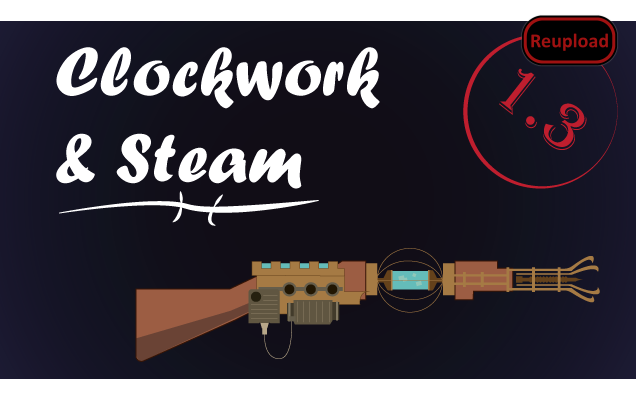
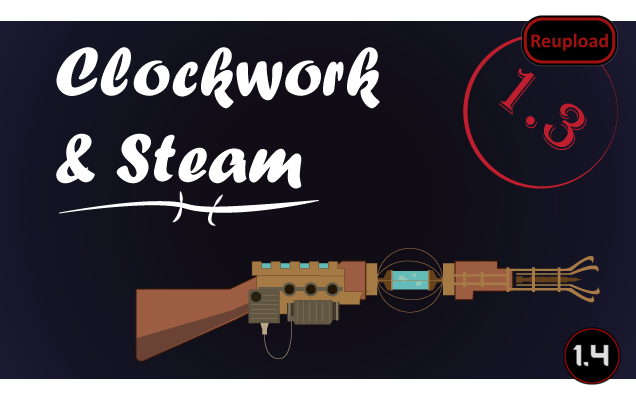
Last update, added end-of-life message

Changed region(s): [[0.8664, 0.81, 0.9858, 0.96]]

diff --git a/README.md b/README.md
@@ -7,7 +7,7 @@ https://steamcommunity.com/sharedfiles/filedetails/?id=1736127702
 
 - Includes https://steamcommunity.com/sharedfiles/filedetails/?id=2341606550]CaS - Royalty Patch
 
-![Image](https://i.imgur.com/pufA0kM.png)
+![Image](https://i.imgur.com/CN9Rs5X.png)
 
 	
 ![Image](https://i.imgur.com/Z4GOv8H.png)
@@ -80,10 +80,13 @@ I'm currently working on adding more steampunk inspired stuff to this mod.
 
 -  See if the the error persists if you just have this mod and its requirements active.
 -  If not, try adding your other mods until it happens again.
--  Post your error-log using https://steamcommunity.com/workshop/filedetails/?id=818773962]HugsLib and command Ctrl+F12
+-  Post your error-log using https://steamcommunity.com/workshop/filedetails/?id=818773962]HugsLib or the standalone https://steamcommunity.com/sharedfiles/filedetails/?id=2873415404]Uploader and command Ctrl+F12
 -  For best support, please use the Discord-channel for error-reporting.
 -  Do not report errors by making a discussion-thread, I get no notification of that.
 -  If you have the solution for a problem, please post it to the GitHub repository.
+-  Use https://github.com/RimSort/RimSort/releases/latest]RimSort to sort your mods
 
 
-https://steamcommunity.com/sharedfiles/filedetails/changelog/2938326206]Last updated 2023-02-28
+
+https://steamcommunity.com/sharedfiles/filedetails/changelog/2938326206]![Image](https://img.shields.io/github/v/release/emipa606/ClockworkAndSteam?label=latest%20version&style=plastic&color=9f1111&labelColor=black)
+
